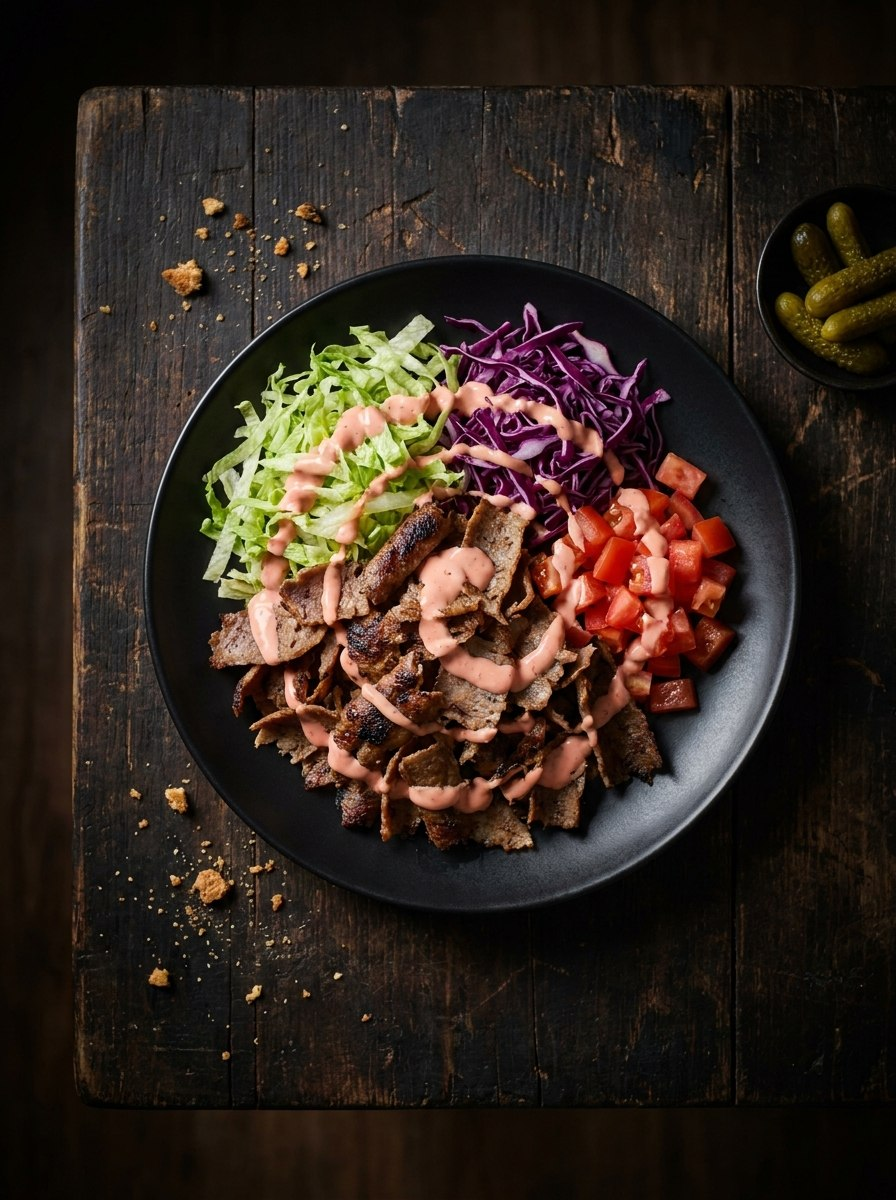
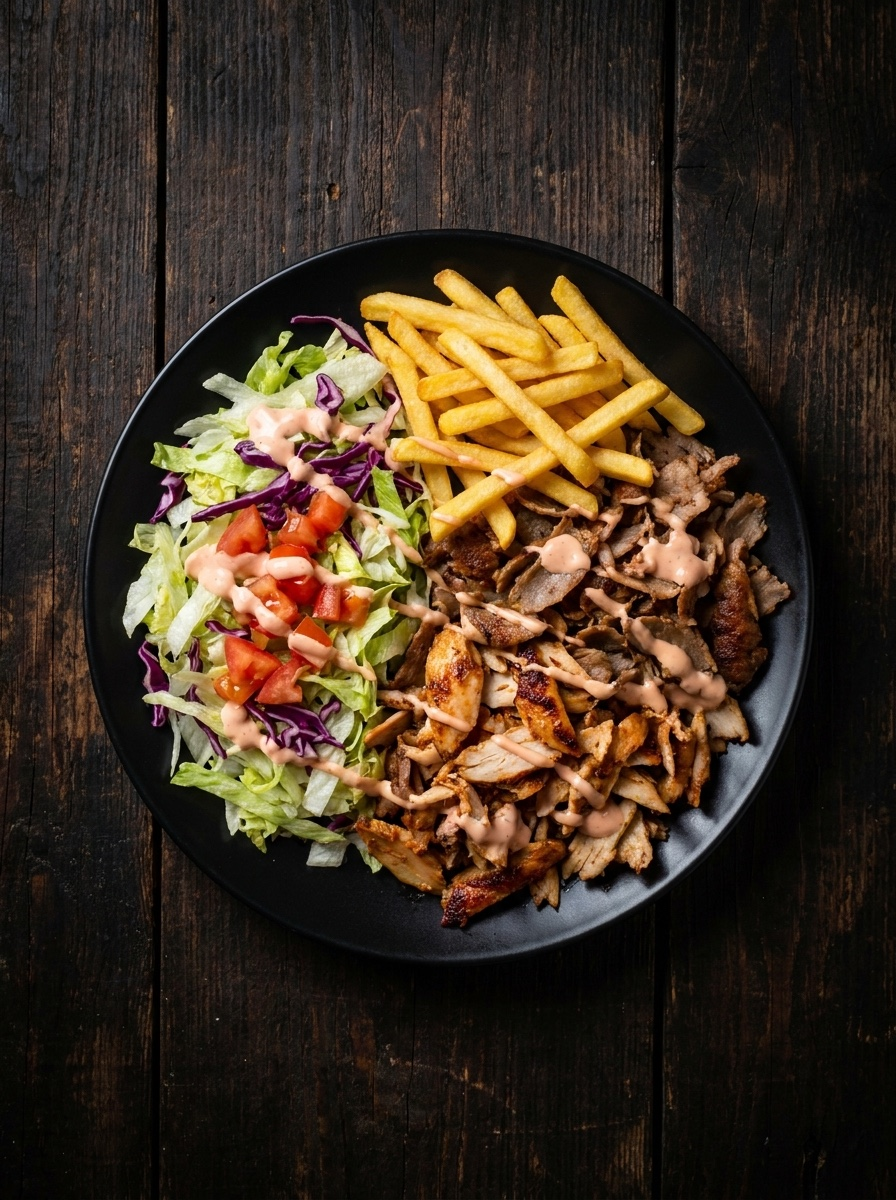
Rework Döner highlight photo, drop card glow effect, rebuild reviews with real Google testimonials
- Regenerate the Döner highlight-gallery photo (39-47): döner meat, fries
  and salad on the plate, no cucumbers/pickles beside it, same moody
  top-down style as the Pizza/Nudeln/Salat cards.
- Remove the ember-tinted glow overlay and heat-shimmer filter on
  highlight-card hover (and the now-unused SVG filter def); keep a
  plain lift, scoped to hover-capable pointers so it can't get stuck
  on touch. Same fix applied to the review card hover ring.
- Rename "Meine Favoriten" to "Meine Auswahl" across the tray, toast
  and aria-labels.
- Rebuild "Was Gäste sagen" with 6 real, sourced Google reviews (up
  from 3 thin snippets), Local Guide credibility lines, a responsive
  3/2/1-column grid with staggered reveal, and a link through to the
  full Google listing.

diff --git a/index.html b/index.html
@@ -11,17 +11,6 @@
 <link rel="stylesheet" href="css/style.css">
 </head>
 <body>
-<svg width="0" height="0" style="position:absolute" aria-hidden="true">
-  <defs>
-    <filter id="heatShimmer" x="-20%" y="-20%" width="140%" height="140%">
-      <feTurbulence type="fractalNoise" baseFrequency="0.012 0.09" numOctaves="2" seed="7" result="noise">
-        <animate attributeName="baseFrequency" dur="5s" values="0.012 0.09;0.016 0.11;0.012 0.09" repeatCount="indefinite"/>
-      </feTurbulence>
-      <feDisplacementMap in="SourceGraphic" in2="noise" scale="9"/>
-    </filter>
-  </defs>
-</svg>
-
 <header class="topbar">
   <a href="#top" class="brandmark">
     <picture>
@@ -58,14 +47,14 @@
 
 <div class="fav-toast" id="favToast" role="status" aria-live="polite">
   <svg viewBox="0 0 24 24" width="16" height="16" fill="currentColor" aria-hidden="true"><path d="M20.8 4.6a5.5 5.5 0 0 0-7.8 0L12 5.6l-1-1a5.5 5.5 0 0 0-7.8 7.8l1 1L12 21l7.8-7.8 1-1a5.5 5.5 0 0 0 0-7.8z"/></svg>
-  <span>Zu Favoriten hinzugefügt</span>
+  <span>Zur Auswahl hinzugefügt</span>
   <button type="button" id="favToastView">Ansehen</button>
 </div>
 
 <div class="fav-tray-scrim" id="favTrayScrim"></div>
 <aside class="fav-tray" id="favTray" aria-hidden="true">
   <div class="fav-tray-header">
-    <h3>Meine Favoriten</h3>
+    <h3>Meine Auswahl</h3>
     <button class="fav-tray-close" id="favTrayClose" type="button" aria-label="Schließen">
       <svg viewBox="0 0 24 24" width="18" height="18" fill="none" stroke="currentColor" stroke-width="2" stroke-linecap="round" stroke-linejoin="round"><path d="M18 6L6 18M6 6l12 12"/></svg>
     </button>
@@ -155,7 +144,7 @@
           <span class="highlight-label"><span class="k">01–38</span><span class="t">Pizza</span></span>
         </a>
         <a class="highlight-card reveal" href="#doener">
-          <img src="assets/images/pizzeria-06.jpeg" alt="Döner mit Pommes und Cola" loading="lazy">
+          <img src="assets/images/pizzeria-06.jpeg" alt="Dönerteller mit Pommes und Salat" loading="lazy">
           <span class="highlight-label"><span class="k">39–47</span><span class="t">Döner</span></span>
         </a>
         <a class="highlight-card reveal" href="#nudeln">
@@ -323,38 +312,75 @@
       <div class="reviews-strip">
         <div class="review reveal">
           <div class="review-head">
-            <span class="review-avatar av-1">JI</span>
+            <span class="review-avatar av-1">CM</span>
             <div class="review-who">
-              <span class="review-name">Joan Ib</span>
-              <span class="review-date">Google, vor einem Monat</span>
+              <span class="review-name">Christian Marx</span>
+              <span class="review-date">Local Guide · 132 Rezensionen</span>
             </div>
           </div>
           <div class="stars">★★★★★</div>
-          <p>"The best ever 🔥"</p>
+          <p>„Ich bin begeistert! Den Inhaber kannte ich schon aus einem anderen Restaurant und hab mich riesig gefreut, als er hier aufgemacht hat. Er weiß, was er tut — das Essen ist unglaublich lecker und das Preis-Leistungs-Verhältnis stimmt einfach. Da wird nicht gespart."</p>
         </div>
         <div class="review reveal">
           <div class="review-head">
-            <span class="review-avatar av-2">RF</span>
+            <span class="review-avatar av-2">CR</span>
             <div class="review-who">
-              <span class="review-name">Raid Friseur</span>
-              <span class="review-date">Google, vor 2 Monaten</span>
+              <span class="review-name">Christopher Rasche</span>
+              <span class="review-date">Local Guide · 35 Rezensionen</span>
             </div>
           </div>
           <div class="stars">★★★★★</div>
-          <p>"Top 10/10 …"</p>
+          <p>„Wir waren heute mit 14 Leuten hier und alle waren rundum zufrieden! Pizza, Döner, Calzone … alles hat super geschmeckt und der Service war richtig freundlich!"</p>
         </div>
         <div class="review reveal">
           <div class="review-head">
-            <span class="review-avatar av-3">AF</span>
+            <span class="review-avatar av-3">A</span>
             <div class="review-who">
-              <span class="review-name">ali fakih</span>
-              <span class="review-date">Google, vor 2 Tagen</span>
+              <span class="review-name">Atokki</span>
+              <span class="review-date">4 Rezensionen</span>
             </div>
           </div>
           <div class="stars">★★★★★</div>
-          <p>"Vegetarian options: Top Rated …"</p>
+          <p>„Die Pizza war richtig gut. Wir haben sie geliefert bekommen und es hat perfekt geklappt, der Fahrer war sehr freundlich. Wir kommen definitiv wieder."</p>
+        </div>
+        <div class="review reveal">
+          <div class="review-head">
+            <span class="review-avatar av-1">IA</span>
+            <div class="review-who">
+              <span class="review-name">Ireen Albrecht</span>
+              <span class="review-date">5 Rezensionen</span>
+            </div>
+          </div>
+          <div class="stars">★★★★★</div>
+          <p>„Gebt dem Laden eine Chance. Die Deko ist etwas rustikal, aber das Essen ist wirklich gut. Ich hatte die Nummer 63 — endlich mal genug Brokkoli und nicht nur Fleisch. Sogar der Döner ist knusprig und nicht labbrig wie anderswo."</p>
+        </div>
+        <div class="review reveal">
+          <div class="review-head">
+            <span class="review-avatar av-2">TZ</span>
+            <div class="review-who">
+              <span class="review-name">Theo Ziabari</span>
+              <span class="review-date">vor 3 Monaten</span>
+            </div>
+          </div>
+          <div class="stars">★★★★★</div>
+          <p>„Hab Schnitzel bestellt und es war nach nur 15 Minuten da 😄 Richtig lecker — vor allem die Hollandaise-Soße!"</p>
+        </div>
+        <div class="review reveal">
+          <div class="review-head">
+            <span class="review-avatar av-3">TG</span>
+            <div class="review-who">
+              <span class="review-name">Thomas Gehrmann</span>
+              <span class="review-date">3 Rezensionen · 7 Fotos</span>
+            </div>
+          </div>
+          <div class="stars">★★★★★</div>
+          <p>„Heute zum ersten Mal Pizza abgeholt und total begeistert. Geschmack und Belag top, der Rand knusprig aber nicht hart — einfach perfekt. War auch schon in 8 Stücke geschnitten."</p>
         </div>
       </div>
+      <a class="reviews-more" href="https://www.google.com/maps/search/?api=1&amp;query=Pizzeria+Sibbesse+Lange+Halbe+2+31079+Sibbesse" target="_blank" rel="noopener">
+        Alle Bewertungen auf Google ansehen
+        <svg width="16" height="16" viewBox="0 0 24 24" fill="none" stroke="currentColor" stroke-width="2.4" stroke-linecap="round" stroke-linejoin="round"><path d="M5 12h14M13 6l6 6-6 6"/></svg>
+      </a>
     </div>
   </section>
 
@@ -484,7 +510,7 @@
     Anrufen
   </a>
   <a href="#speisekarte" class="sticky-cta-order">Jetzt bestellen</a>
-  <button class="sticky-cta-fav" id="stickyFavBtn" type="button" aria-label="Meine Favoriten ansehen" aria-haspopup="true" aria-controls="favTray">
+  <button class="sticky-cta-fav" id="stickyFavBtn" type="button" aria-label="Meine Auswahl ansehen" aria-haspopup="true" aria-controls="favTray">
     <svg viewBox="0 0 24 24" width="18" height="18" fill="none" stroke="currentColor" stroke-width="2" stroke-linecap="round" stroke-linejoin="round" aria-hidden="true"><path d="M20.8 4.6a5.5 5.5 0 0 0-7.8 0L12 5.6l-1-1a5.5 5.5 0 0 0-7.8 7.8l1 1L12 21l7.8-7.8 1-1a5.5 5.5 0 0 0 0-7.8z"/></svg>
     <span class="sticky-fav-count" id="stickyFavCount">0</span>
   </button>

diff --git a/css/style.css b/css/style.css
@@ -878,36 +878,31 @@
     background:var(--bg-2);
     transition:transform .3s ease, box-shadow .3s ease;
   }
-  .highlight-card:hover{
-    transform:translateY(-6px);
-    box-shadow:0 24px 44px -18px rgba(0,0,0,.6);
-    z-index:3;
+  @media (hover:hover) and (pointer:fine){
+    .highlight-card:hover{
+      transform:translateY(-6px);
+      box-shadow:0 24px 44px -18px rgba(0,0,0,.6);
+      z-index:3;
+    }
+    .highlight-card:hover img{transform:scale(1.05);}
   }
   .highlight-card img{
     position:absolute;inset:0;
     width:100%;height:100%;
     object-fit:cover;
-    transition:transform .5s ease, filter .3s ease;
+    transition:transform .5s ease;
   }
-  .highlight-card:hover img{transform:scale(1.08);filter:url(#heatShimmer);}
-  @media (prefers-reduced-motion:reduce){.highlight-card:hover img{filter:none;}}
   .highlight-card::after{
     content:"";
     position:absolute;inset:0;
     background:linear-gradient(0deg, rgba(15,10,7,.88) 0%, rgba(15,10,7,.15) 55%, transparent 75%);
-    transition:background .3s ease;
-  }
-  .highlight-card:hover::after{
-    background:linear-gradient(0deg, rgba(15,10,7,.92) 0%, rgba(232,85,31,.22) 55%, transparent 80%);
   }
   .highlight-card::before{
     content:"";
     position:absolute;inset:0;z-index:2;
     border:1px solid transparent;
-    transition:border-color .3s ease;
     pointer-events:none;
   }
-  .highlight-card:hover::before{border-color:var(--ember);}
   .highlight-label{
     position:absolute;left:1rem;right:1rem;bottom:1rem;z-index:2;
     color:#fdf3e4;
@@ -1022,6 +1017,7 @@
     grid-template-columns:repeat(3,1fr);
     gap:1.1rem;
   }
+  @media (max-width:1080px){.reviews-strip{grid-template-columns:repeat(2,1fr);}}
   @media (max-width:760px){.reviews-strip{grid-template-columns:1fr;}}
   .review{
     position:relative;
@@ -1031,13 +1027,18 @@
     padding:1.6rem;
     transition:border-color .2s, transform .2s, box-shadow .2s;
   }
-  .review:hover{
-    border-color:var(--ember);
-    transform:translateY(-3px);
-    box-shadow:0 16px 32px -18px rgba(0,0,0,.5), 0 0 0 1px rgba(232,85,31,.25);
+  @media (hover:hover) and (pointer:fine){
+    .review:hover{
+      border-color:var(--bg-2-hover);
+      transform:translateY(-3px);
+      box-shadow:0 16px 32px -18px rgba(0,0,0,.5);
+    }
   }
-  .review.reveal:nth-child(2){transition-delay:.1s;}
-  .review.reveal:nth-child(3){transition-delay:.2s;}
+  .review.reveal:nth-child(2){transition-delay:.08s;}
+  .review.reveal:nth-child(3){transition-delay:.16s;}
+  .review.reveal:nth-child(4){transition-delay:.24s;}
+  .review.reveal:nth-child(5){transition-delay:.32s;}
+  .review.reveal:nth-child(6){transition-delay:.4s;}
   .review::before{
     content:"❝";
     position:absolute;
@@ -1068,6 +1069,21 @@
   .review-date{font-size:.74rem;color:var(--ink-faint);}
   .review .stars{color:var(--crust-soft);letter-spacing:.1em;font-size:.9rem;}
   .review p{margin:.7rem 0 0;font-size:.95rem;color:var(--ink);}
+  .reviews-more{
+    display:flex;align-items:center;justify-content:center;gap:.5rem;
+    margin:2rem auto 0;
+    width:fit-content;
+    color:var(--ink-dim);
+    text-decoration:none;
+    font-size:.92rem;font-weight:600;
+    padding:.5rem .3rem;
+    transition:color .2s;
+  }
+  .reviews-more svg{transition:transform .2s;}
+  @media (hover:hover) and (pointer:fine){
+    .reviews-more:hover{color:var(--ember-soft);}
+    .reviews-more:hover svg{transform:translateX(4px);}
+  }
 
   /* ---------- info / footer ---------- */
   .info-grid{
